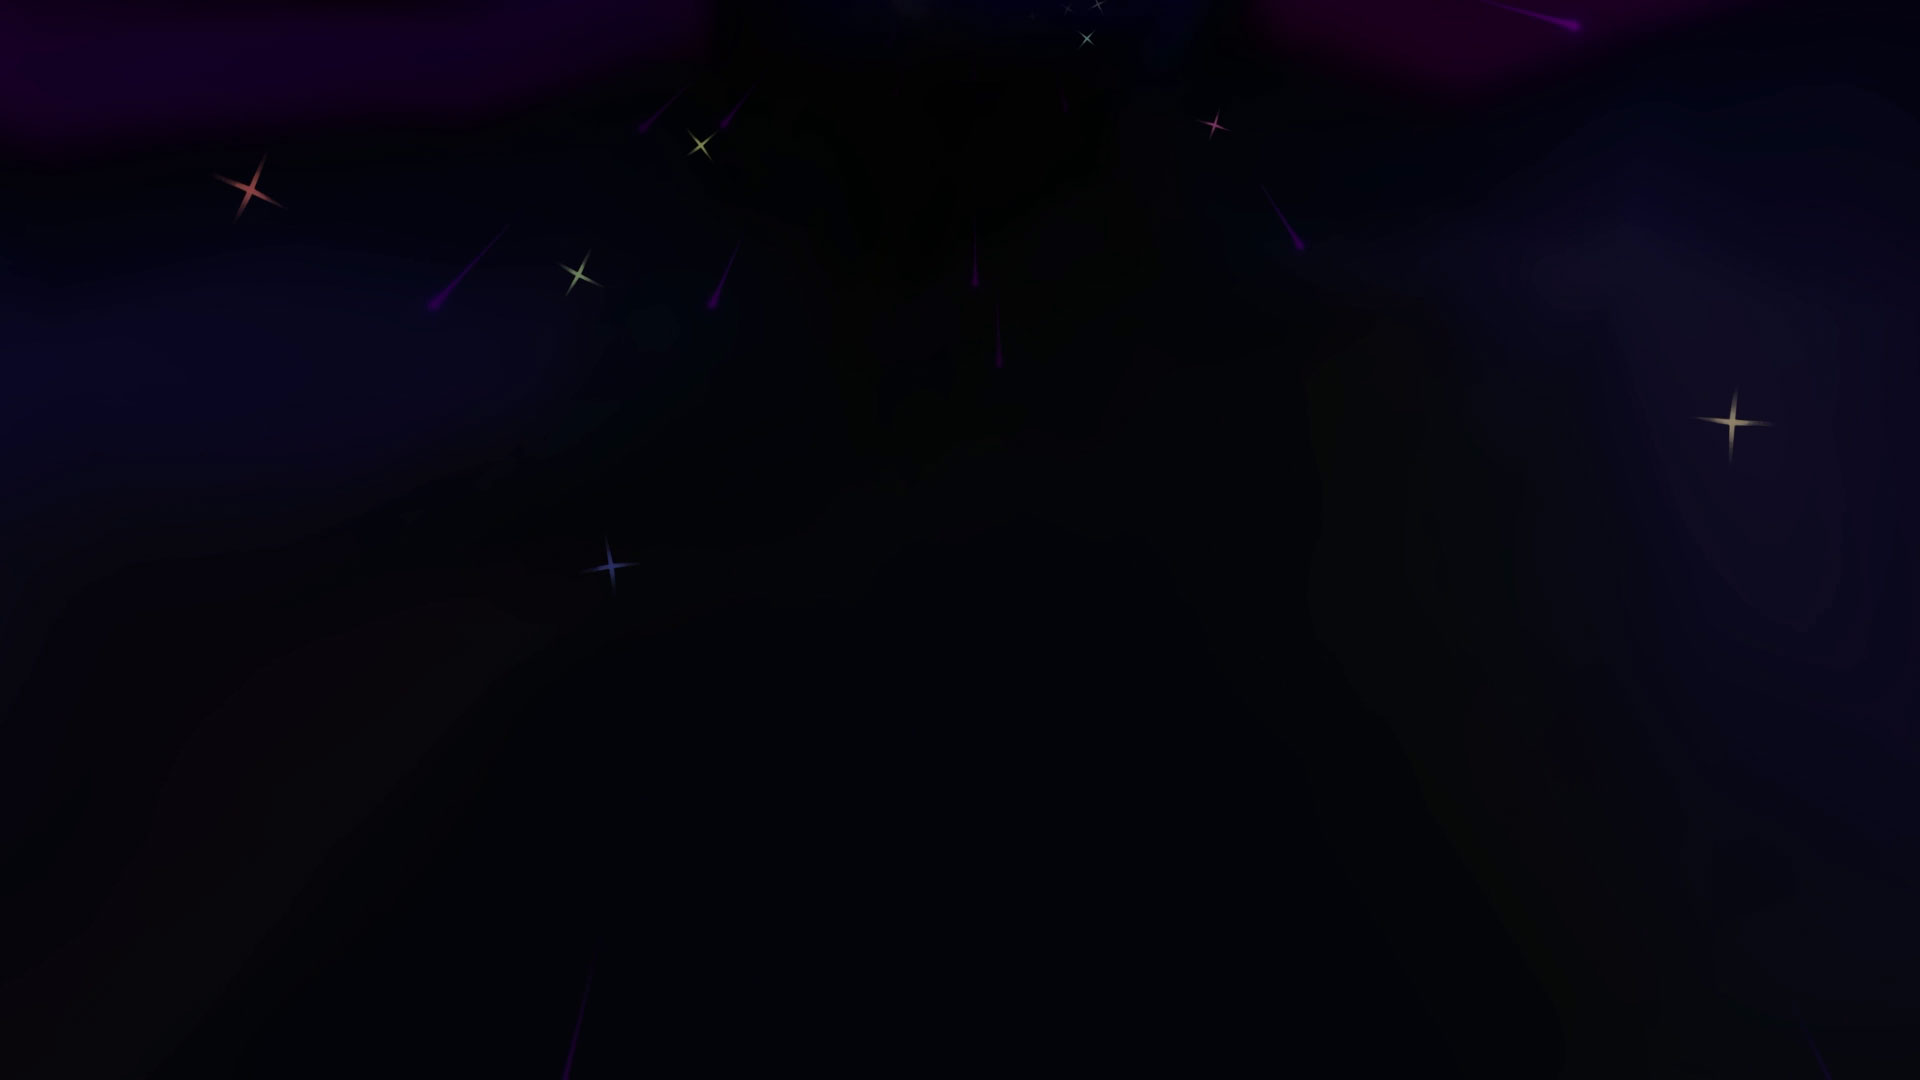
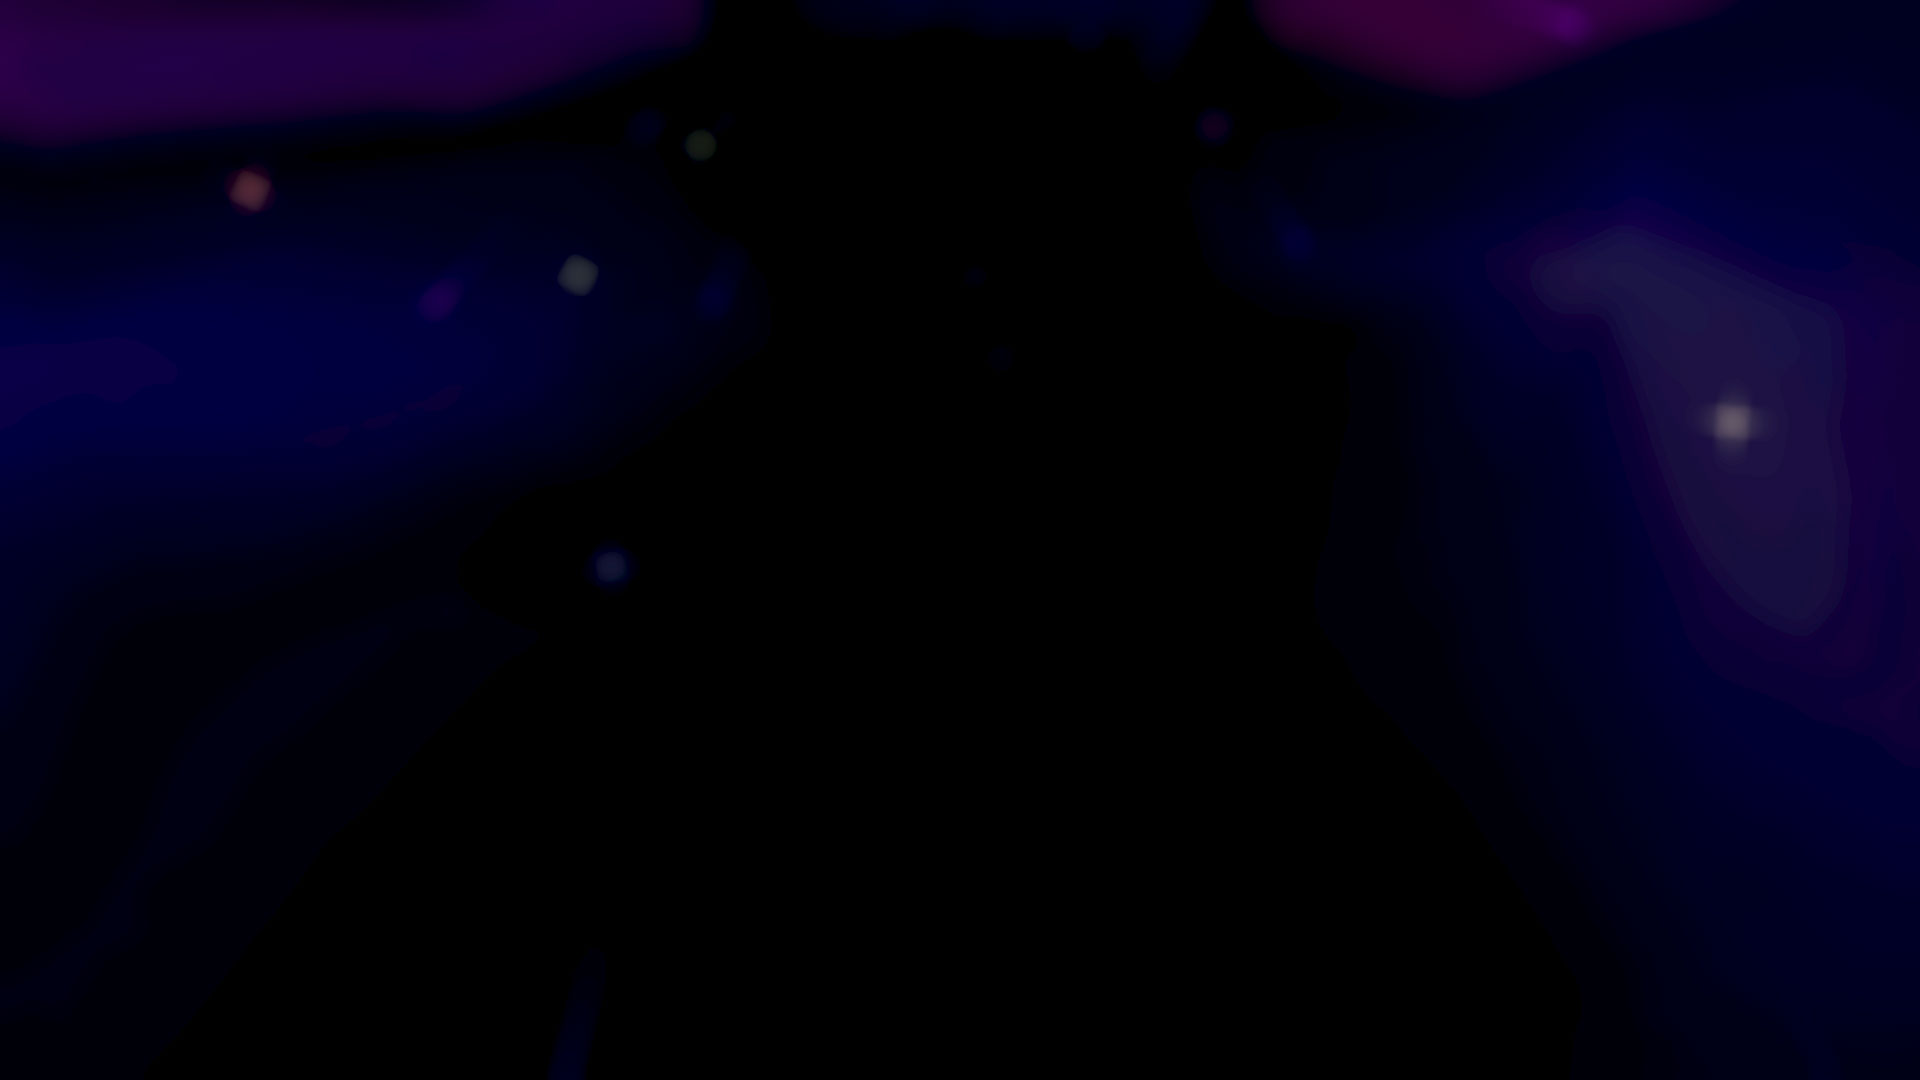
bg/page changes and cleanup

diff --git a/index.html b/index.html
@@ -78,151 +78,151 @@
 			<tr>
 				<td>Professor Pro</td>
 				<td>1</td>
-				<td><img id="prline" src="i/trans.png"></td>
+				<td><img class="prline" src="i/trans.png"></td>
 				<td>Fox</td>
 			</tr>
 			<tr>
 				<td>Frenzy</td>
 				<td>2</td>
-				<td><img id="prup" src="i/trans.png"> 1</td>
+				<td><img class="prup" src="i/trans.png"> 1</td>
 				<td>Falco</td>
 			</tr>
 			<tr>
 				<td>Max</td>
 				<td>3</td>
-				<td><img id="prstar" src="i/trans.png"> new!</td>
+				<td><img class="prstar" src="i/trans.png"> new!</td>
 				<td>Sheik</td>
 			</tr>
 			<tr>
 				<td>Kingu</td>
 				<td>4</td>
-				<td><img id="prstar" src="i/trans.png"> new!</td>
+				<td><img class="prstar" src="i/trans.png"> new!</td>
 				<td>Puff</td>
 			</tr>
 			<tr>
 				<td>Fat Tino</td>
 				<td>5</td>
-				<td><img id="prline" src="i/trans.png"></td>
+				<td><img class="prline" src="i/trans.png"></td>
 				<td>Falco</td>
 			</tr>
 			<tr>
 				<td>Stranger</td>
 				<td>6</td>
-				<td><img id="prreturn" src="i/trans.png"> return</td>
+				<td><img class="prreturn" src="i/trans.png"> return</td>
 				<td>Fox</td>
 			</tr>
 			<tr>
 				<td>23</td>
 				<td>7</td>
-				<td><img id="prup" src="i/trans.png"> 4</td>
+				<td><img class="prup" src="i/trans.png"> 4</td>
 				<td>Fox</td>
 			</tr>
 			<tr>
 				<td>Squeachu</td>
 				<td>8</td>
-				<td><img id="prstar" src="i/trans.png"> new!</td>
+				<td><img class="prstar" src="i/trans.png"> new!</td>
 				<td>G&W</td>
 			</tr>
 			<tr>
 				<td>Okameed</td>
 				<td>9</td>
-				<td><img id="prup" src="i/trans.png"> 6</td>
+				<td><img class="prup" src="i/trans.png"> 6</td>
 				<td>Pikachu</td>
 			</tr>
 			<tr>
 				<td>Mordo</td>
 				<td>10</td>
-				<td><img id="prup" src="i/trans.png"> 4</td>
+				<td><img class="prup" src="i/trans.png"> 4</td>
 				<td>Falco</td>
 			</tr>
 			<tr>
 				<td>Luan</td>
 				<td>11</td>
-				<td><img id="prstar" src="i/trans.png"> new!</td>
+				<td><img class="prstar" src="i/trans.png"> new!</td>
 				<td>Fox</td>
 			</tr>
 			<tr>
 				<td>GG</td>
 				<td>12</td>
-				<td><img id="prup" src="i/trans.png"> 10</td>
+				<td><img class="prup" src="i/trans.png"> 10</td>
 				<td>Puff/Zelda</td>
 			</tr>
 			<tr>
 				<td>R23</td>
 				<td>13</td>
-				<td><img id="prdown" src="i/trans.png"> 3</td>
+				<td><img class="prdown" src="i/trans.png"> 3</td>
 				<td>Sheik</td>
 			</tr>
 			<tr>
 				<td>Bomboni</td>
 				<td>14</td>
-				<td><img id="prdown" src="i/trans.png"> 1</td>
+				<td><img class="prdown" src="i/trans.png"> 1</td>
 				<td>C.Falcon</td>
 			</tr>
 			<tr>
 				<td>Silas</td>
 				<td>15</td>
-				<td><img id="prup" src="i/trans.png"> 8</td>
+				<td><img class="prup" src="i/trans.png"> 8</td>
 				<td>Peach</td>
 			</tr>
 			<tr>
 				<td>Zepple</td>
 				<td>16</td>
-				<td><img id="prstar" src="i/trans.png"> new!</td>
+				<td><img class="prstar" src="i/trans.png"> new!</td>
 				<td>Falco</td>
 			</tr>
 			<tr>
 				<td>Lil Chief</td>
 				<td>17</td>
-				<td><img id="prstar" src="i/trans.png"> new!</td>
+				<td><img class="prstar" src="i/trans.png"> new!</td>
 				<td>Marth</td>
 			</tr>
 			<tr>
 				<td>Shifting Shadows</td>
 				<td>18</td>
-				<td><img id="prreturn" src="i/trans.png"> return</td>
+				<td><img class="prreturn" src="i/trans.png"> return</td>
 				<td>C.Falcon</td>
 			</tr>
 			<tr>
 				<td>Thai</td>
 				<td>19</td>
-				<td><img id="prstar" src="i/trans.png"> new!</td>
+				<td><img class="prstar" src="i/trans.png"> new!</td>
 				<td>Fox</td>
 			</tr>
 			<tr>
 				<td>10 Quid Shoes</td>
 				<td>20</td>
-				<td><img id="prdown" src="i/trans.png"> 8</td>
+				<td><img class="prdown" src="i/trans.png"> 8</td>
 				<td>Marth</td>
 			</tr>
 			<tr>
 				<td>Glaikit</td>
 				<td>21</td>
-				<td><img id="prstar" src="i/trans.png"> new!</td>
+				<td><img class="prstar" src="i/trans.png"> new!</td>
 				<td>Falco</td>
 			</tr>
 			<tr>
 				<td>Modentor</td>
 				<td>22</td>
-				<td><img id="prstar" src="i/trans.png"> new!</td>
+				<td><img class="prstar" src="i/trans.png"> new!</td>
 				<td>Fox</td>
 			</tr>
 			<tr>
 				<td>Kidder</td>
 				<td>23</td>
-				<td><img id="prdown" src="i/trans.png"> 4</td>
+				<td><img class="prdown" src="i/trans.png"> 4</td>
 				<td>Sheik</td>
 			</tr>
 			<tr>
 				<td>HoorayForJay</td>
 				<td>24</td>
-				<td><img id="prstar" src="i/trans.png"> new!</td>
+				<td><img class="prstar" src="i/trans.png"> new!</td>
 				<td>Falco</td>
 			</tr>
 			<tr>
 				<td>Cpt. Nebula</td>
 				<td>25</td>
-				<td><img id="prdown" src="i/trans.png"> 1</td>
+				<td><img class="prdown" src="i/trans.png"> 1</td>
 				<td>Luigi</td>
 			</tr>
 		</table>

diff --git a/assets/style/main.css b/assets/style/main.css
@@ -17,7 +17,9 @@ html, body {
 
 }
 body {
-	background: url("../../i/bg.jpg");
+	background: url("../../i/bg.png");
+	background-size: cover;
+	background-position: center;
 	box-sizing: border-box;
 	padding-top: 87px;
 }
@@ -90,13 +92,12 @@ td {
 }
 .page {
 	display: none;
-	border-left: 1px solid #555555;
-	border-right: 1px solid #555555;
-	max-width: 835px;
+
+	max-width: 675px;
 	height: 100%;
 	margin-left: auto;
 	margin-right: auto;
-	background: #191919;
+	background: #070707a8;
 	overflow: auto;
 }
 .page p {
@@ -188,27 +189,27 @@ td {
 	height: 30px;
 	text-align: center;
 }
-#prup {
+.prup {
 	width: 13px;
   height: 11px;
   background: url("../../i/sprites.png") 0 0;
 }
-#prdown {
+.prdown {
 	width: 13px;
   height: 11px;
   background: url("../../i/sprites.png") -13px 0;
 }
-#prline {
+.prline {
 	width: 13px;
   height: 11px;
   background: url("../../i/sprites.png") 13px 0;
 }
-#prstar {
+.prstar {
 	width: 13px;
   height: 12px;
   background: url("../../i/sprites.png") -13px -11px;
 }
-#prreturn {
+.prreturn {
 	width: 13px;
   height: 12px;
   background: url("../../i/sprites.png") 0 -11px;
